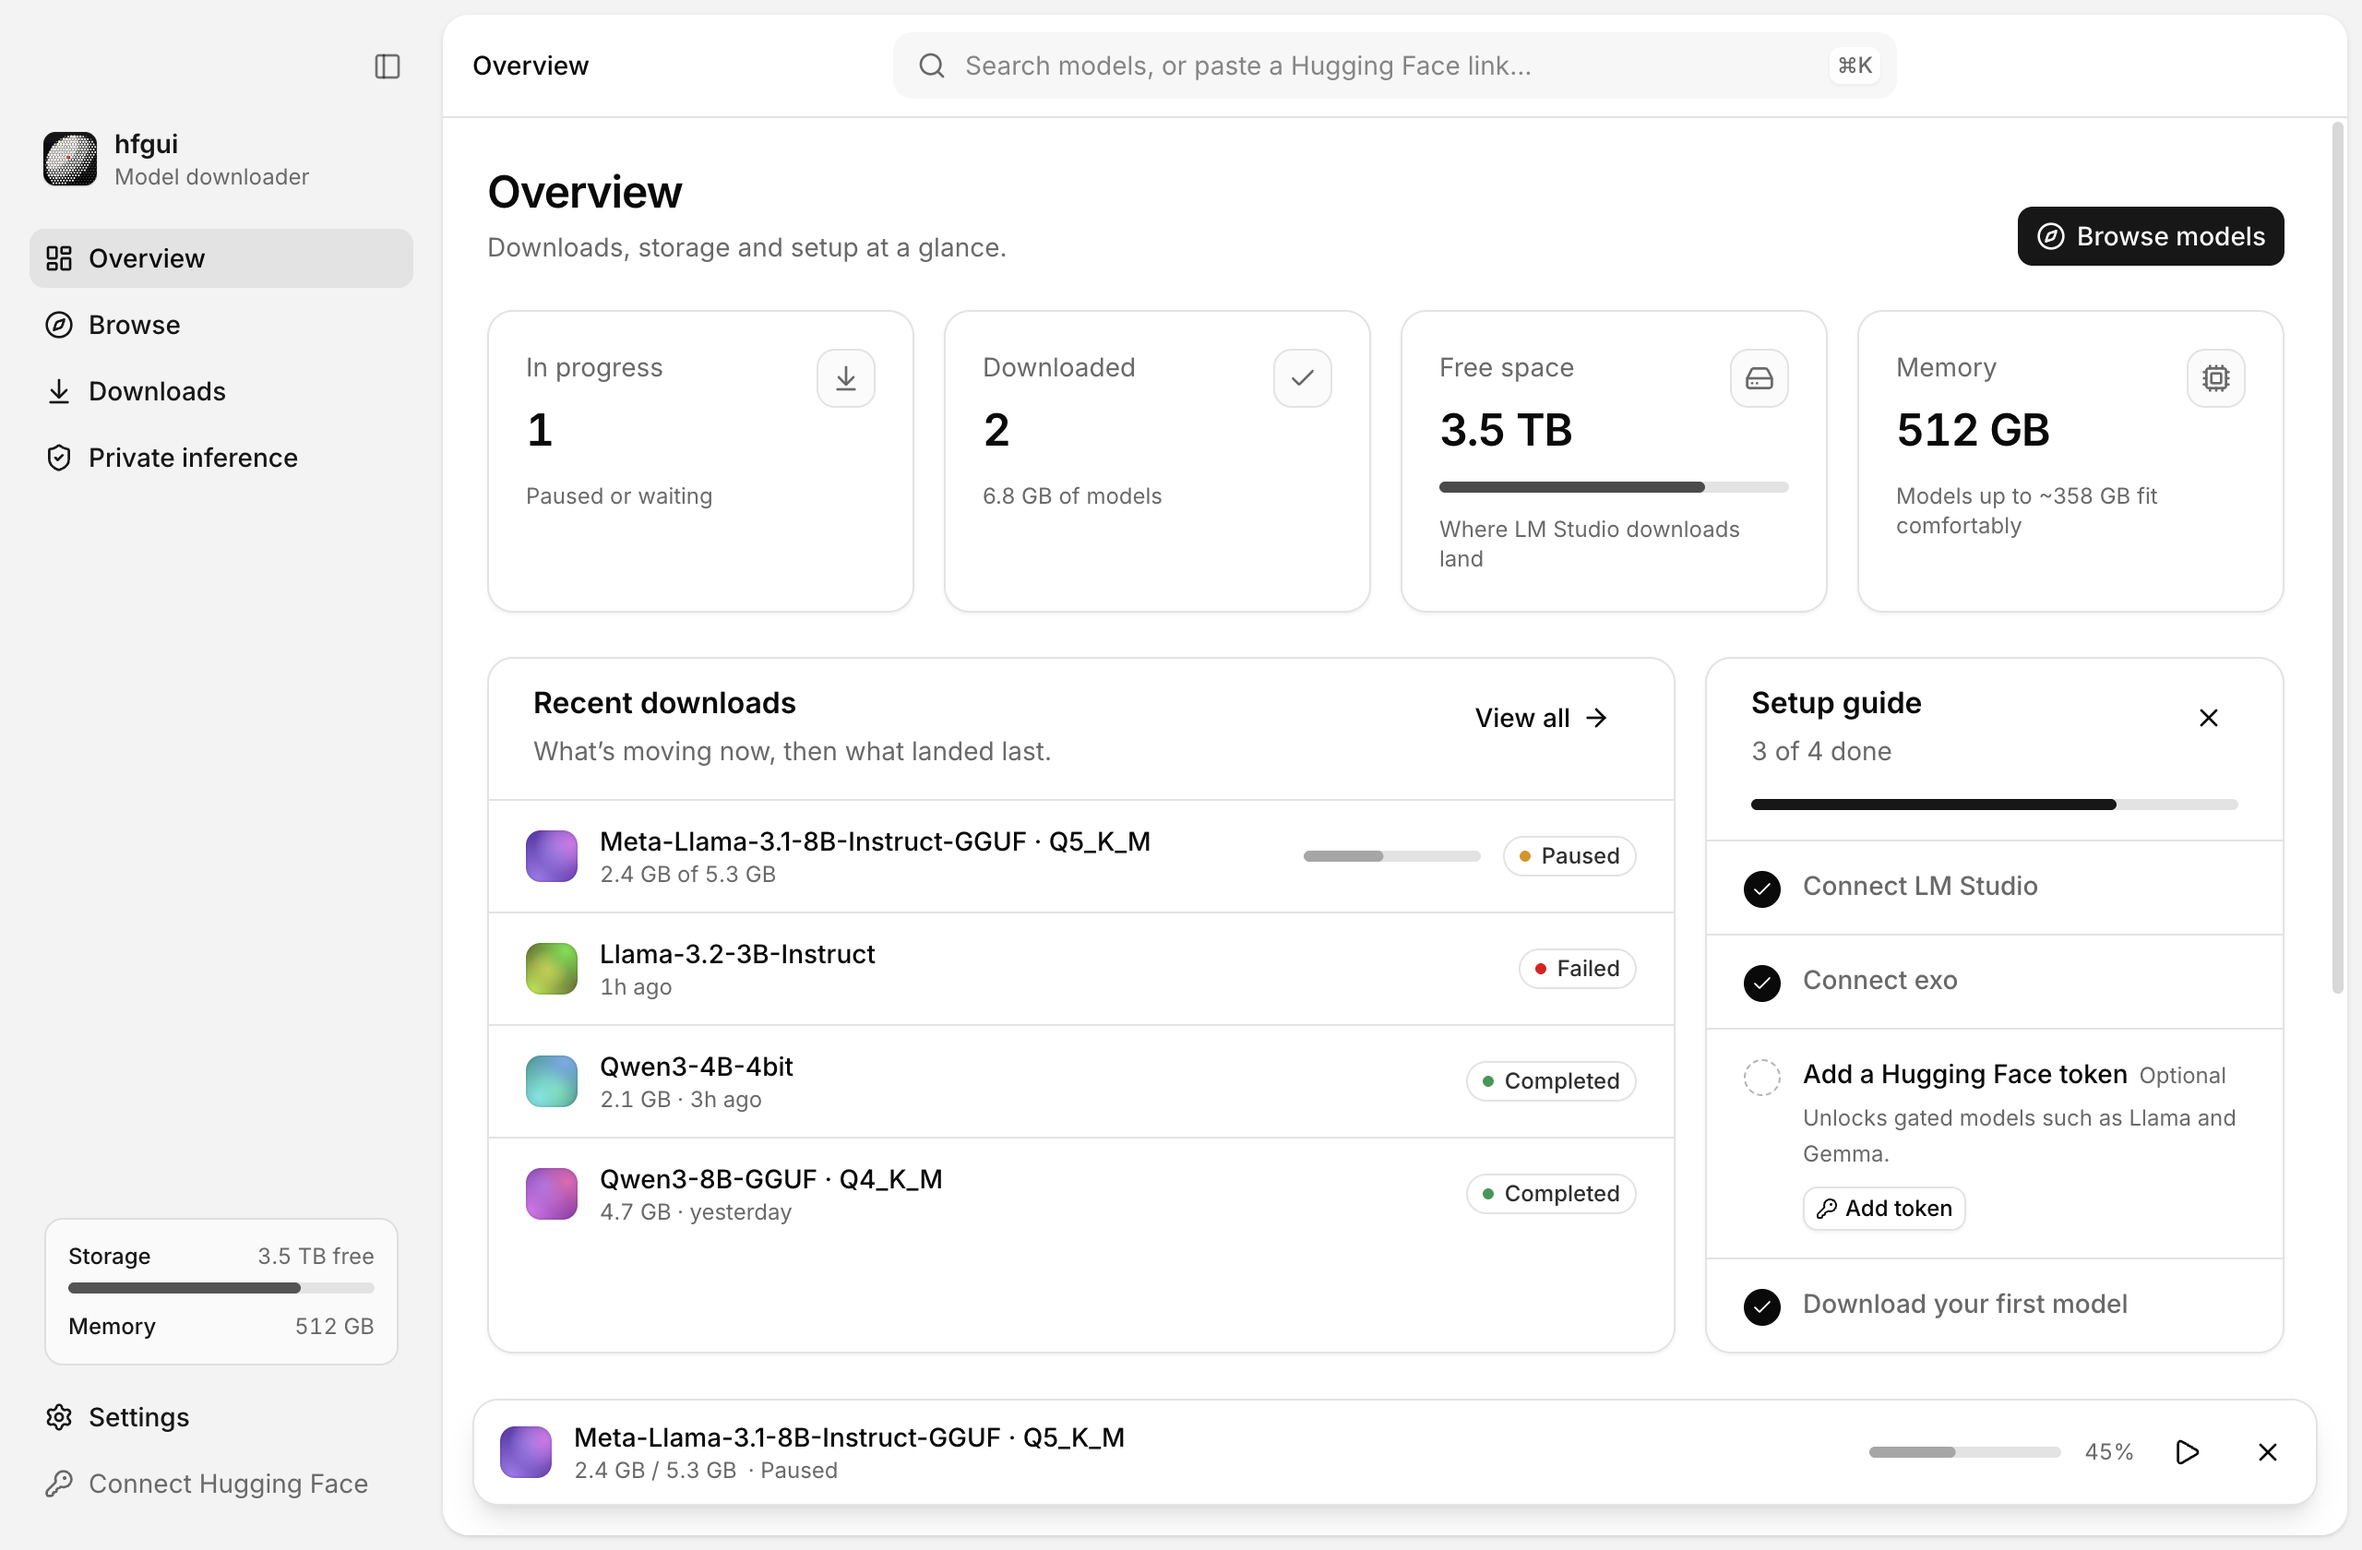
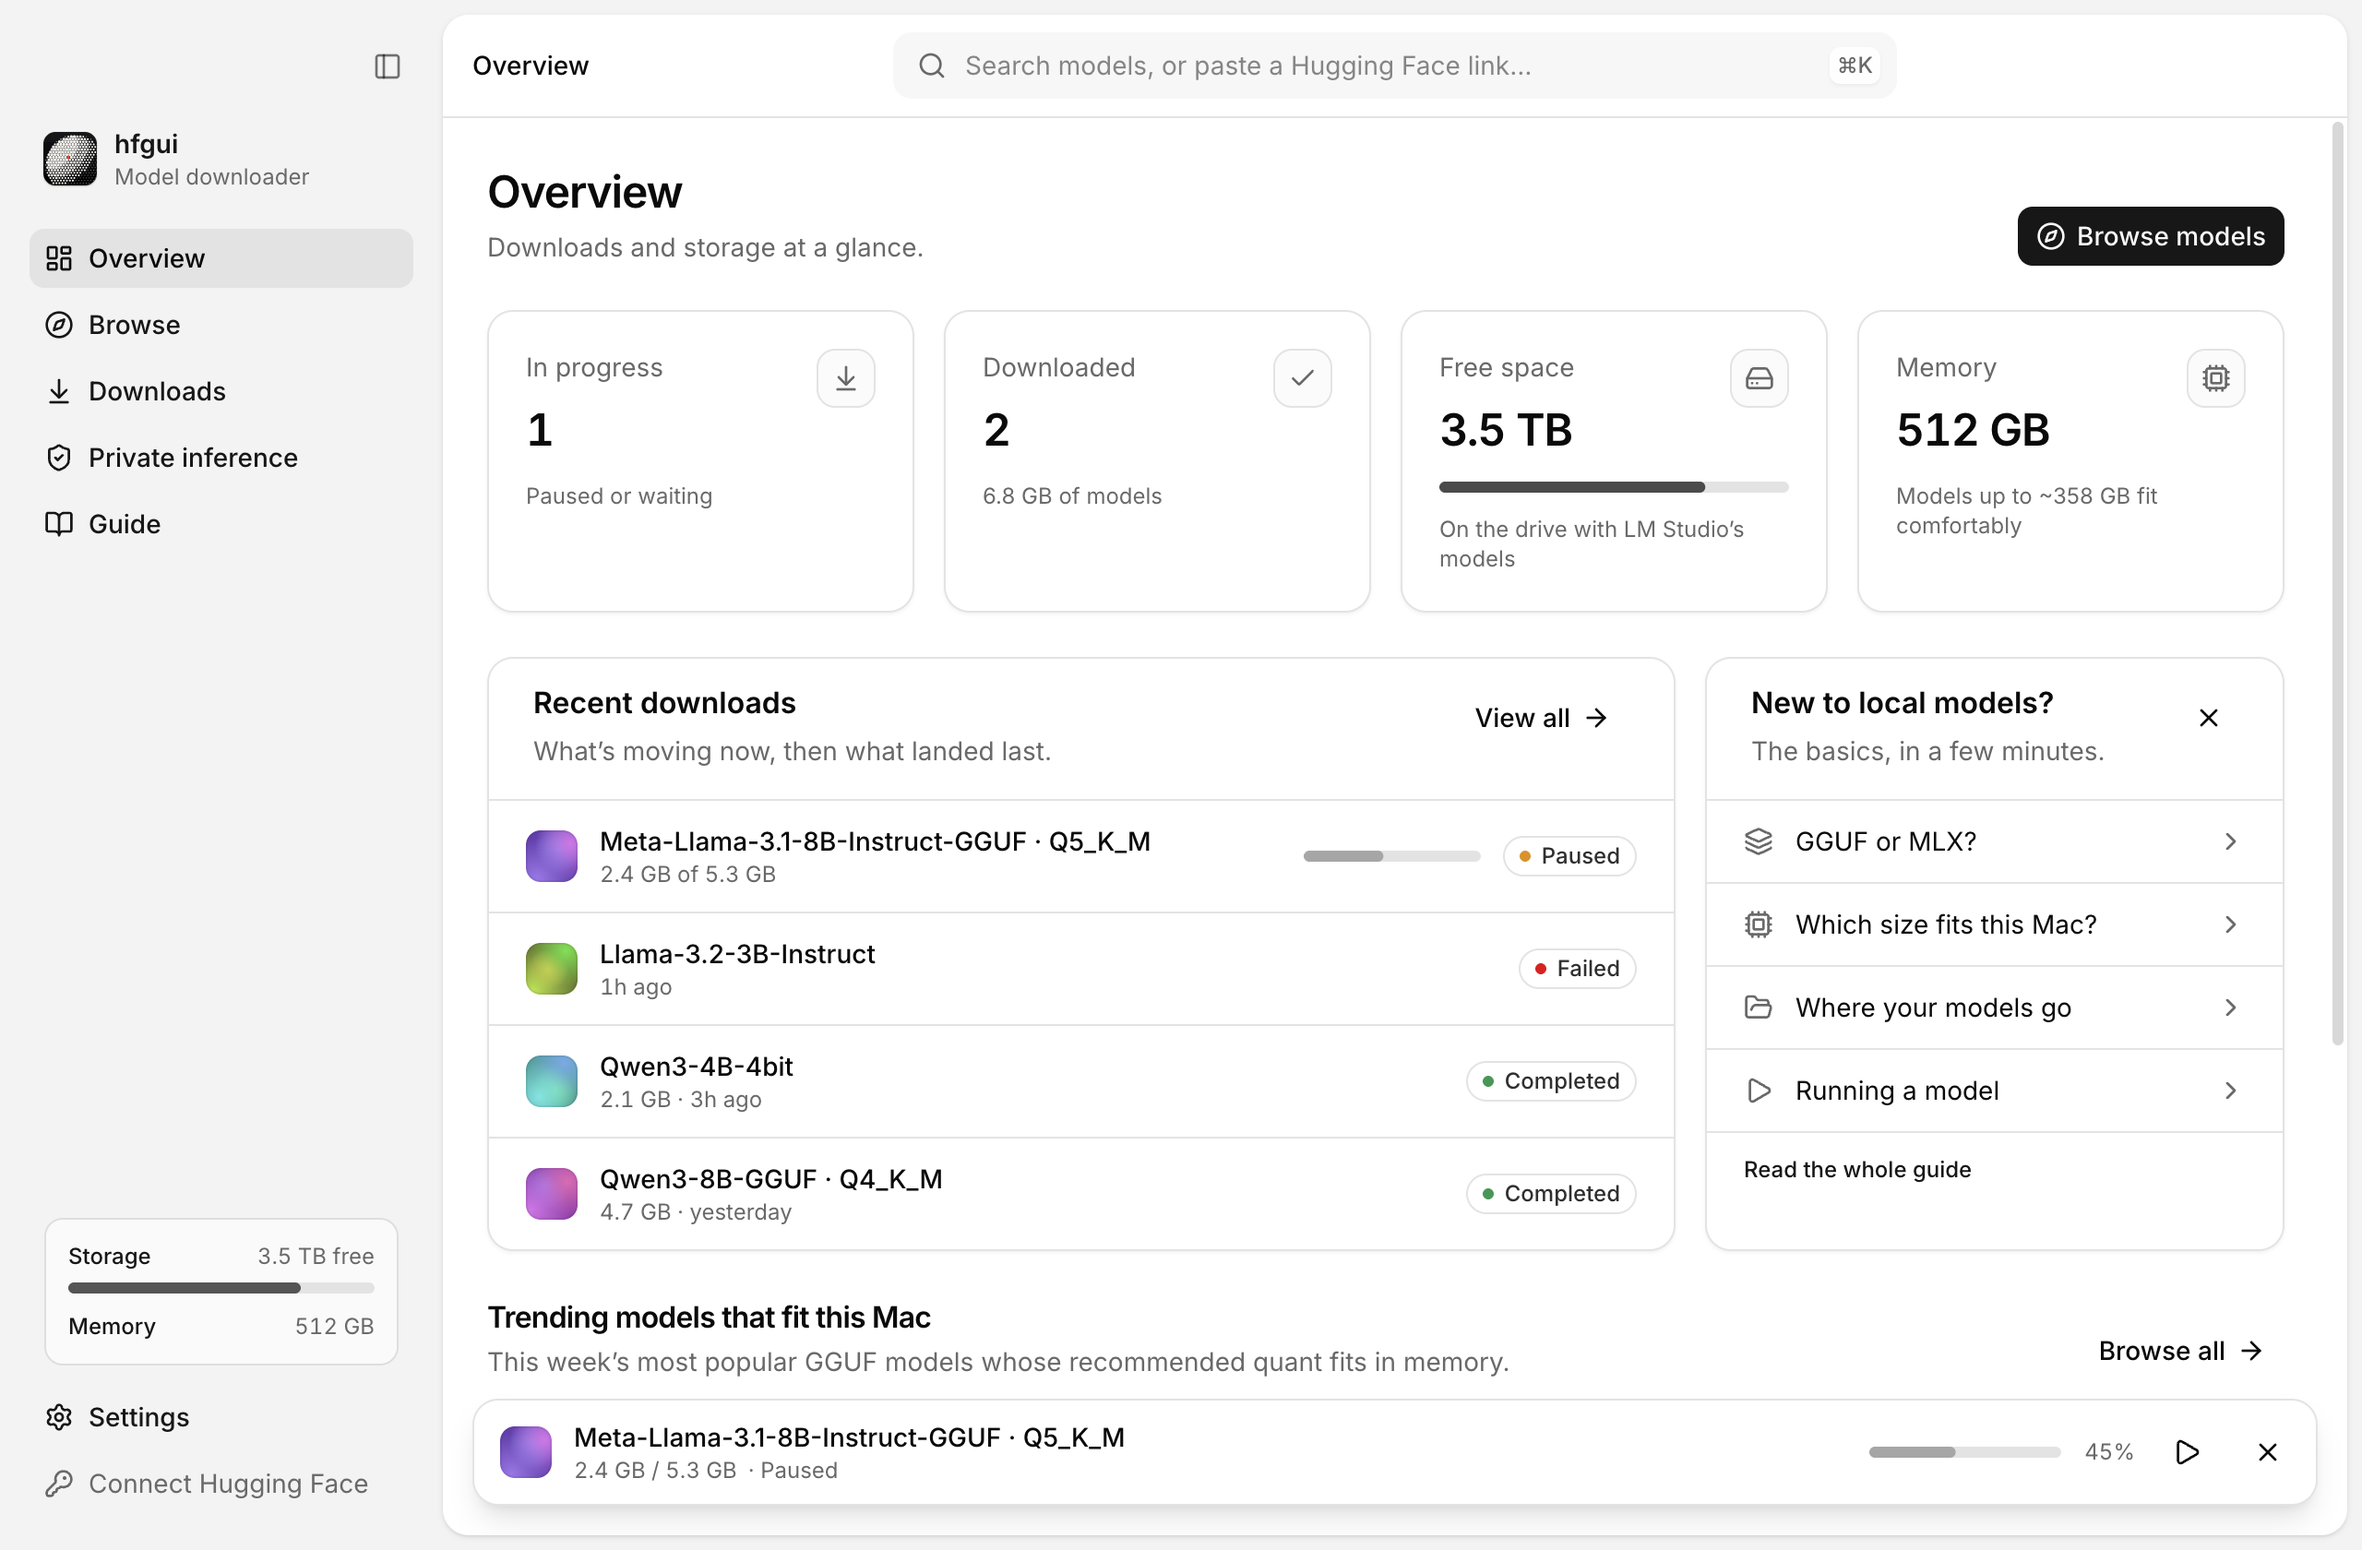
Document the welcome screen and Guide; refresh screenshots

diff --git a/README.md b/README.md
@@ -1,14 +1,22 @@
 # hfgui
 
-A modern Electron app for browsing and downloading Hugging Face models — straight into the
-folders where **LM Studio** and **exo** pick them up. No manual file moving.
+A Mac app for finding and downloading open models from Hugging Face. It picks the size that
+fits your memory and keeps big downloads going until they're done. Models go to a folder of
+your choice, or straight into **LM Studio** and **exo** if you use them.
 
 ![](docs/screenshot-overview.png)
 
 ## What it does
 
+- **Welcome**: on first launch, choose where models go and, optionally, add a Hugging Face
+  token. LM Studio and exo are offered only when they're on this Mac; nothing asks you to
+  install anything. Settings → About → Show again replays it.
 - **Overview** at a glance: what is downloading, what landed, free space where models go,
-  how big a model this Mac can run, a setup guide, and trending models that fit in memory.
+  how big a model this Mac can run, a way into the Guide, and trending models that fit in
+  memory.
+- **Guide**: the basics for people new to local models — GGUF or MLX, which size fits (with
+  this Mac's own memory figures), where files go, running a model with LM Studio, Ollama,
+  llama.cpp, mlx-lm or exo, models that ask for a license, and disk space.
 - **Browse** the Hugging Face Hub: search, sort by Trending / Most downloaded / Most liked /
   Recently updated, filter by format (GGUF / MLX) and task — as cards or as a dense table.
   Cards show parameters and the size you would actually download (the estimated Q4_K_M
@@ -48,16 +56,22 @@ folders where **LM Studio** and **exo** pick them up. No manual file moving.
 - **Notifications**: a macOS notification when a download finishes or fails in the
   background, a Dock badge with the number of active downloads, and the Dock icon's
   progress bar.
-- **Keyboard**: ⌘K or / to search, ⌘1–5 for pages, ⌘B for the sidebar, ⌘, for Settings.
+- **Keyboard**: ⌘K or / to search, ⌘1–6 for pages, ⌘B for the sidebar, ⌘, for Settings.
 - **Drag a card onto a destination** to start a download without opening the model. For
   GGUF repos that starts the quantization hfgui would have recommended for your RAM, and
   says which one it picked with Change / Undo. Every path is also a button.
-- **Destinations**
-  - **LM Studio** → `~/.lmstudio/models/{publisher}/{model}/` (auto-detected, including a
-    custom models folder configured in LM Studio). Models appear after reopening LM Studio.
-  - **exo** → `~/.exo/models/{org}--{model}/` (flat repo folder; exo loads complete folders
-    automatically). Offered for MLX models.
-  - **Custom folder** for anything else.
+- **Destinations**: a default for new downloads (Settings), and each download can pick
+  another.
+  - **Models folder** → `~/Models/{publisher}/{model}/` unless you choose another folder:
+    plain files any app can open.
+  - **LM Studio** → `~/.lmstudio/models/{publisher}/{model}/`, when LM Studio is installed
+    (auto-detected, including a custom models folder configured in LM Studio). Models appear
+    after reopening LM Studio.
+  - **exo** → `~/.exo/models/{org}--{model}/`, when exo is installed (flat repo folder; exo
+    loads complete folders automatically). Offered for MLX models.
+
+  Apps that aren't installed don't appear anywhere: not on the model sheet, the drop
+  targets, the menus or in Settings.
 
 ## Design
 
@@ -74,6 +88,8 @@ one org reads as a set.
 ![](docs/screenshot-browse.png)
 ![](docs/screenshot-detail.png)
 ![](docs/screenshot-downloads.png)
+![](docs/screenshot-guide.png)
+![](docs/screenshot-welcome.png)
 
 ## Development
 
